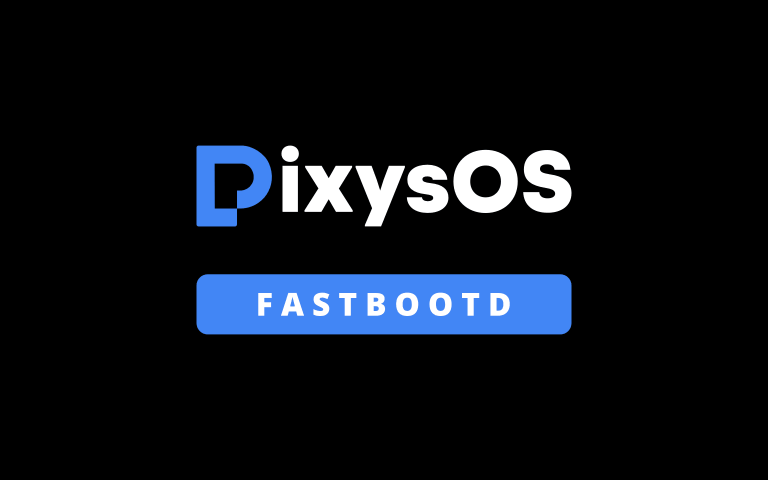
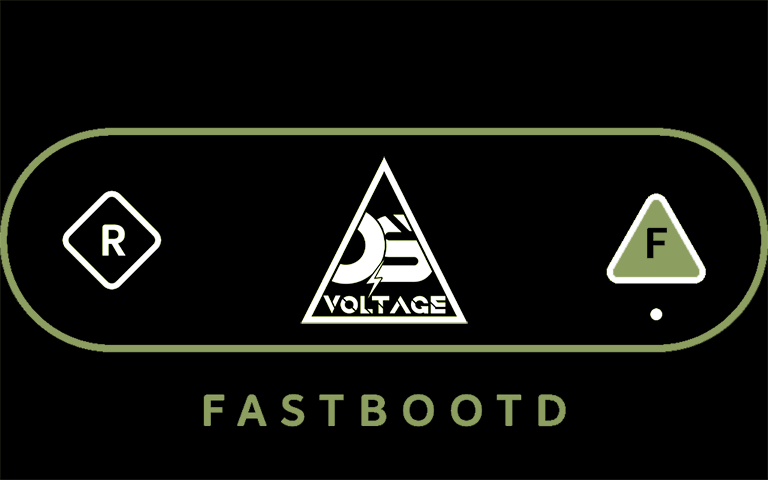
recovery: rebrand to Voltage Recovery
• add our recovery icons. (Thanks to https://github.com/RajeevNomad)
• change selected menu background color to Voltage yellow.
• simplify version props.

diff --git a/recovery_ui/screen_ui.cpp b/recovery_ui/screen_ui.cpp
@@ -602,7 +602,7 @@ void ScreenRecoveryUI::SetColor(UIElement e) const {
         gr_color(0x42, 0x85, 0xf4, 255);
       break;
     case UIElement::MENU_SEL_BG_ACTIVE:
-      gr_color(0, 156, 100, 255);
+      gr_color(0, 254, 230, 0);
       break;
     case UIElement::MENU_SEL_FG:
         gr_color(0xd8, 0xd8, 0xd8, 255);
@@ -822,7 +822,7 @@ void ScreenRecoveryUI::draw_menu_and_text_buffer_locked(
   int y = margin_height_;
 
   if (menu_) {
-    auto& logo = fastbootd_logo_enabled_ ? fastbootd_logo_ : default_logo;
+    auto& logo = fastbootd_logo_enabled_ ? fastbootd_logo_ : voltage_logo_;
     auto logo_width = gr_get_width(logo.get());
     auto logo_height = gr_get_height(logo.get());
     auto centered_x = ScreenWidth() / 2 - logo_width / 2;
@@ -1178,12 +1178,14 @@ bool ScreenRecoveryUI::Init(const std::string& locale) {
   no_command_text_ = LoadLocalizedBitmap("no_command_text");
   error_text_ = LoadLocalizedBitmap("error_text");
 
-  default_logo = LoadBitmap("logo_image");
   back_icon_ = LoadBitmap("ic_back");
   back_icon_sel_ = LoadBitmap("ic_back_sel");
   if (android::base::GetBoolProperty("ro.boot.dynamic_partitions", false) ||
       android::base::GetBoolProperty("ro.fastbootd.available", false)) {
+    voltage_logo_ = LoadBitmap("logo_image_switch");
     fastbootd_logo_ = LoadBitmap("fastbootd");
+  } else {
+    voltage_logo_ = LoadBitmap("logo_image");
   }
 
   // Background text for "installing_update" could be "installing update" or
@@ -1518,8 +1520,8 @@ int ScreenRecoveryUI::SelectMenu(const Point& p) {
   if (menu_) {
     if (!menu_->IsMain()) {
       // Back arrow hitbox
-      const static int logo_width = gr_get_width(default_logo.get());
-      const static int logo_height = gr_get_height(default_logo.get());
+      const static int logo_width = gr_get_width(voltage_logo_.get());
+      const static int logo_height = gr_get_height(voltage_logo_.get());
       const static int icon_w = gr_get_width(back_icon_.get());
       const static int icon_h = gr_get_height(back_icon_.get());
       const static int centered_x = ScreenWidth() / 2 - logo_width / 2;

diff --git a/recovery.cpp b/recovery.cpp
@@ -870,7 +870,18 @@ Device::BuiltinAction start_recovery(Device* device, const std::vector<std::stri
     ui->SetStage(st_cur, st_max);
   }
 
-  std::vector<std::string> title_lines = {};
+  // Extract the YYYYMMDD / YYYYMMDD_HHMMSS timestamp from the full version string.
+  // Assume the first instance of "-[0-9]{8}-", or "-[0-9]{8}_[0-9]{6}-" in case
+  // VOLTAGE_VERSION_APPEND_TIME_OF_DAY is set to true has the desired date.
+  std::string ver = android::base::GetProperty("ro.voltage.version", "");
+  std::smatch ver_date_match;
+  std::regex_search(ver, ver_date_match, std::regex("-(\\d{8}(_\\d{6})?)-"));
+  std::string ver_date = ver_date_match.str(1);  // Empty if no match.
+
+  std::vector<std::string> title_lines = {
+    "Version: " + android::base::GetProperty("ro.voltage.version", "(unknown)") +
+        " " + ver_date,
+  };
   title_lines.push_back("Product name - " + android::base::GetProperty("ro.product.device", ""));
   if (android::base::GetBoolProperty("ro.build.ab_update", false)) {
     std::string slot = android::base::GetProperty("ro.boot.slot_suffix", "");

diff --git a/recovery_ui/include/recovery_ui/screen_ui.h b/recovery_ui/include/recovery_ui/screen_ui.h
@@ -150,7 +150,7 @@ class TextMenu : public Menu {
   size_t MenuEnd() const;
 
   // Menu example:
-  // info:                           Lineage Recovery
+  // info:                           Voltage Recovery
   //                                 ....
   // help messages:                  Swipe up/down to move
   //                                 Swipe left/right to select
@@ -466,7 +466,7 @@ class ScreenRecoveryUI : public RecoveryUI, public DrawInterface {
   std::unique_ptr<GRSurface> wipe_data_confirmation_text_;
   std::unique_ptr<GRSurface> wipe_data_menu_header_text_;
 
-  std::unique_ptr<GRSurface> default_logo;
+  std::unique_ptr<GRSurface> voltage_logo_;
   std::unique_ptr<GRSurface> back_icon_;
   std::unique_ptr<GRSurface> back_icon_sel_;
   std::unique_ptr<GRSurface> fastbootd_logo_;
